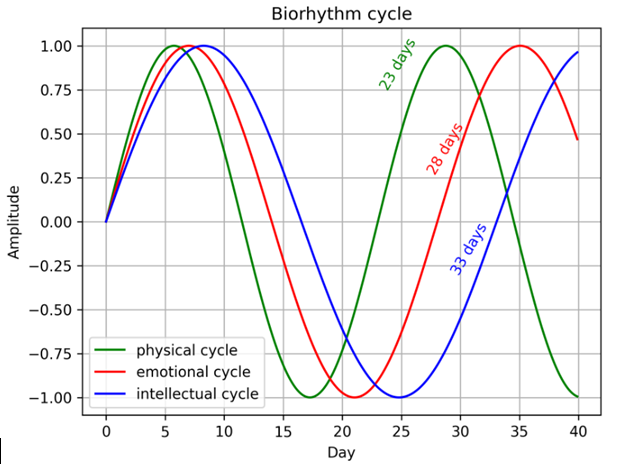
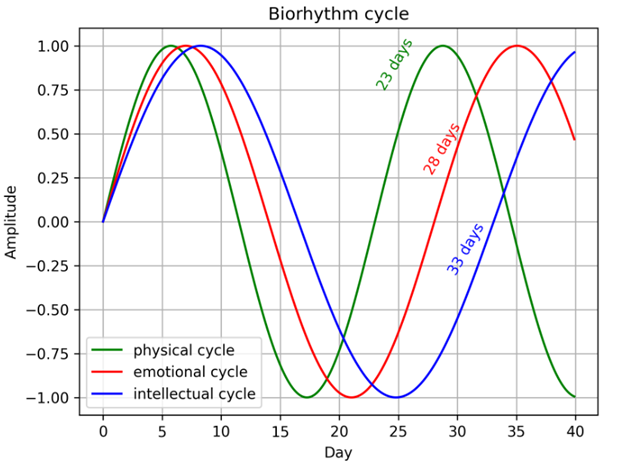
Update

diff --git a/_projects/project2.md b/_projects/project2.md
@@ -1,7 +1,7 @@
 ---
 layout: page
 title: Research Assistant, Isfahan University of Technology
-description: Experimental research on advanced control systems including piezoelectric actuators, inverted pendulum, and MIMO systems
+description: Experimental research on advanced control systems including piezoelectric actuators (PEA), inverted pendulum, and twin rotor MIMO (TRMS) systems.
 importance: 2
 category: Projects
 ---
@@ -28,12 +28,18 @@ Experimental research targeting ultra-precise positioning applications. Operated
 - Achieved sub-micron level positioning accuracy
 - Developed real-time control system for micro/nano-manipulation
 
-<img src="{{ site.baseurl }}/assets/img/projects/piezoelectric_actuator.jpg" alt="Piezoelectric Actuator Control" style="max-width: 450px; height: auto; margin: 15px 0;">
+**Publication:**
+- [Robust Control of Affine Nonlinear Systems Using an Energy-Efficient Gray-Box Framework: A Practical Validation](https://ieeexplore.ieee.org/document/11527195)
+
+
+<div style="text-align: center;">
+  <img src="{{ site.baseurl }}/assets/img/projects/piezoelectric_actuator.jpg" alt="Piezoelectric Actuator Control" style="max-width: 450px; height: auto; border: 1px solid #ddd; padding: 8px;">
+</div>
 
 ---
 
 ## Project 2: Digital Inverted Pendulum System, Controller Validation
-**Duration:** Jan 2024 – Dec 2024
+**Duration:** Jul 2024 – Dec 2024
 
 Designed and conducted hands-on experiments on a digital inverted pendulum platform to validate controller performance in angle and angular velocity tracking through collaborative research at Isfahan University of Technology.
 
@@ -44,7 +50,10 @@ Designed and conducted hands-on experiments on a digital inverted pendulum platf
 - Implemented angle and angular velocity tracking algorithms
 - Conducted comprehensive experimental analysis
 
-<img src="{{ site.baseurl }}/assets/img/projects/inverted_pendulum.jpg" alt="Inverted Pendulum System" style="max-width: 450px; height: auto; margin: 15px 0;">
+<div style="text-align: center;">
+  <img src="{{ site.baseurl }}/assets/img/projects/inverted_pendulum.jpg" alt="Inverted Pendulum System" style="max-width: 450px; height: auto; border: 1px solid #ddd; padding: 8px;">
+</div>
+
 
 ---
 
@@ -60,7 +69,13 @@ Experimental investigation of the Twin Rotor Multiple-Input Multiple-Output (MIM
 - Designed multivariable control strategies
 - Validated controller performance under complex coupled dynamics
 
-<img src="{{ site.baseurl }}/assets/img/projects/twin_rotor_mimo.jpg" alt="Twin Rotor MIMO System" style="max-width: 450px; height: auto; margin: 15px 0;">
+**Publication:**
+- [Sequential Type-2 Fuzzy Wavelet for Robust Online Control Applications](https://ieeexplore.ieee.org/abstract/document/11373369)
+
+
+<div style="text-align: center;">
+  <img src="{{ site.baseurl }}/assets/img/projects/twin_rotor_mimo.jpg" alt="Twin Rotor MIMO System" style="max-width: 450px; height: auto; border: 1px solid #ddd; padding: 8px;">
+</div>
 
 ---
 

diff --git a/_awards/award3_best_paper.md b/_awards/award3_best_paper.md
@@ -1,14 +1,16 @@
 ---
 layout: page
 title: Best Paper Award – 30th Electrical Safety Conference
-description: Recognition for research on human factors in electrical safety
+description: Recognition for research on human factors in electrical safety.
 importance: 3
 category: Awards
 ---
 
 Awarded Best Paper at the 30th Electrical Safety Conference for research on human factors in electrical safety, occupational accidents, and biorhythm analysis of electrical industry workers. Research conducted in collaboration with HSE and Crisis Management Division, focusing on improving workplace safety and accident prevention strategies.
 
-**Organization:** Isfahan Regional Electricity Company (EREC)  
+**Organization:** Esfahan Regional Electricity Company (EREC)  
 **Date:** Jan 2023
 
-<img src="{{ site.baseurl }}/assets/img/awards/award3_best_paper.jpg" alt="Best Paper Award Certificate" style="max-width: 400px; height: auto;">
+<div style="text-align: center;">
+  <img src="{{ site.baseurl }}/assets/img/awards/award3_best_paper.jpg" alt="Best Paper Award Certificate" style="max-width: 400px; height: auto; border: 1px solid #ddd; padding: 8px;">
+</div>

diff --git a/_projects/project3.md b/_projects/project3.md
@@ -1,7 +1,7 @@
 ---
 layout: page
 title: Power Transmission Safety & Human Biorhythm Analysis
-description: Research collaboration on power transmission network incidents and human-factor analysis in protection systems
+description: Research collaboration on power transmission network incidents and human-factor analysis in protection systems.
 importance: 3
 category: Projects
 ---
@@ -26,4 +26,6 @@ Collaborated as a research team member on a comprehensive study analyzing power 
 
 **Organization:** Nirogahian (Power Generation and Distribution)
 
-<img src="{{ site.baseurl }}/assets/img/projects/project3_power_transmission.png" alt="Power Transmission Safety Analysis" style="max-width: 500px; height: auto;">
+<div style="text-align: center;">
+  <img src="{{ site.baseurl }}/assets/img/projects/project3_power_transmission.png" alt="Power Transmission Safety Analysis" style="max-width: 500px; height: auto; border: 1px solid #ddd; padding: 8px;">
+</div>

diff --git a/_projects/eeci_2026_big_data_control.md b/_projects/eeci_2026_big_data_control.md
@@ -1,11 +1,13 @@
 ---
 layout: page
 title: EECI 2026 International Graduate School on Control
-description: Attendance Certificate for Big Data, Sparsity and GenAI in Control, issued May 2026
+description: Attendance Certificate for Big Data, Sparsity and GenAI in Control, issued May 2026.
 importance: 2
 category: Certificates
 ---
 
 Attendance Certificate from the EECI 2026 International Graduate School on Control, held at Politecnico di Torino, Italy. Completed the 21-hour lecture series on "Big Data, Sparsity and GenAI in Control" from May 11-14, 2026.
 
-<img src="{{ site.baseurl }}/assets/img/certificates/eeci_2026_big_data_control.jpg" alt="EECI 2026 Certificate" style="max-width: 500px; height: auto;">
+<div style="text-align: center;">
+  <img src="{{ site.baseurl }}/assets/img/certificates/eeci_2026_big_data_control.jpg" alt="EECI 2026 Certificate" style="max-width: 500px; height: auto; border: 1px solid #ddd; padding: 8px;">
+</div>

diff --git a/_awards/award1_msc_ranking.md b/_awards/award1_msc_ranking.md
@@ -1,7 +1,7 @@
 ---
 layout: page
 title: Ranked 3rd M.Sc. Student in Control Engineering
-description: Academic excellence in Control Engineering, Isfahan University of Technology
+description: Academic excellence in Control Engineering, Isfahan University of Technology.
 importance: 1
 category: Awards
 ---
@@ -11,4 +11,6 @@ Ranked 3rd among 15 M.Sc. students in Control Engineering at Isfahan University 
 **University:** Isfahan University of Technology  
 **Date:** Jan 2025
 
-<img src="{{ site.baseurl }}/assets/img/awards/award1_msc_ranking.jpg" alt="M.Sc. Ranking Certificate" style="max-width: 400px; height: auto;">
+<div style="text-align: center;">
+  <img src="{{ site.baseurl }}/assets/img/awards/award1_msc_ranking.jpg" alt="M.Sc. Ranking Certificate" style="max-width: 400px; height: auto; border: 1px solid #ddd; padding: 8px;">
+</div>

diff --git a/_awards/award4_direct_admission.md b/_awards/award4_direct_admission.md
@@ -1,7 +1,7 @@
 ---
 layout: page
 title: Direct Admission to M.Sc. Program in Control Engineering
-description: Exceptional undergraduate academic performance recognition
+description: Exceptional undergraduate academic performance recognition.
 importance: 4
 category: Awards
 ---
@@ -11,4 +11,6 @@ Awarded direct admission to the graduate program at Isfahan University of Techno
 **University:** Isfahan University of Technology  
 **Date:** Jan 2019
 
-<img src="{{ site.baseurl }}/assets/img/awards/award4_direct_admission.jpg" alt="Direct Admission Certificate" style="max-width: 800px; height: auto;">
+<div style="text-align: center;">
+  <img src="{{ site.baseurl }}/assets/img/awards/award4_direct_admission.jpg" alt="Direct Admission Certificate" style="max-width: 800px; height: auto; border: 1px solid #ddd; padding: 8px;">
+</div>

diff --git a/_awards/award2_bsc_ranking.md b/_awards/award2_bsc_ranking.md
@@ -1,7 +1,7 @@
 ---
 layout: page
 title: Ranked 1st B.Sc. Student in Electrical Power Engineering
-description: Highest academic standing in Electrical Power Engineering program
+description: Highest academic standing in Electrical Power Engineering program.
 importance: 2
 category: Awards
 ---
@@ -11,4 +11,6 @@ Ranked 1st among 24 B.Sc. students in Electrical Power Engineering at Shahrekord
 **University:** Shahrekord University  
 **Date:** Jan 2025
 
-<img src="{{ site.baseurl }}/assets/img/awards/award2_bsc_ranking.jpg" alt="B.Sc. Ranking Certificate" style="max-width: 400px; height: auto;">
+<div style="text-align: center;">
+  <img src="{{ site.baseurl }}/assets/img/awards/award2_bsc_ranking.jpg" alt="B.Sc. Ranking Certificate" style="max-width: 400px; height: auto; border: 1px solid #ddd; padding: 8px;">
+</div>

diff --git a/_projects/ieee_young_professionals.md b/_projects/ieee_young_professionals.md
@@ -1,11 +1,13 @@
 ---
 layout: page
 title: IEEE Young Professionals
-description: Certificate of Membership, issued January 2026
+description: Certificate of Membership, issued January 2026.
 importance: 1
 category: Certificates
 ---
 
 Certificate of Membership from IEEE Young Professionals, issued in January 2026.
 
-<img src="{{ site.baseurl }}/assets/img/certificates/ieee_young_professionals.jpg" alt="IEEE Young Professionals Certificate" style="max-width: 700px; height: auto;">
+<div style="text-align: center;">
+  <img src="{{ site.baseurl }}/assets/img/certificates/ieee_young_professionals.jpg" alt="IEEE Young Professionals Certificate" style="max-width: 700px; height: auto; border: 1px solid #ddd; padding: 8px;">
+</div>

diff --git a/_projects/Professional_Engineering_License.md b/_projects/Professional_Engineering_License.md
@@ -1,7 +1,7 @@
 ---
 layout: page
 title: Professional Engineering License
-description: Professional Engineering License for Building Electrical Installation Design (Grade 3), issued by Iranian Ministry of Roads and Urban Development
+description: Professional Engineering License for Building Electrical Installation Design (Grade 3), issued by Iranian Ministry of Roads and Urban Development.
 importance: 3
 category: Certificates
 ---

diff --git a/_projects/project1.md b/_projects/project1.md
@@ -1,7 +1,7 @@
 ---
 layout: page
 title: Fault Detection & Fault-Tolerant Control of Permanent Magnet Linear Motors
-description: Remote research collaboration with Murdoch University on PMLM reliability under uncertainties
+description: Remote research collaboration with Murdoch University on PMLM reliability under actuator fault and uncertainties.
 importance: 1
 category: Projects
 ---
